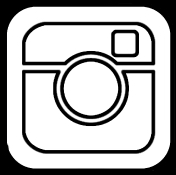
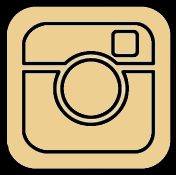
updated colors on pictures page

diff --git a/style.css b/style.css
@@ -43,7 +43,7 @@ body {
 	padding-bottom: 2rem;
 	font-family: 'Farmers_Reg';
 	text-align: center;
-	color: white;
+	color: #eccf90;
 }
 
 #logo_container {
@@ -56,7 +56,7 @@ body {
 }
 
 .home {
-	background-color: black;
+	background: black;
 }
 
 #menu_container {
@@ -138,6 +138,10 @@ h3{
 
   }
 
+/*.fotorama__caption {
+    text-align: center;
+    font-family: 'Farmers_Reg'
+}*/
 #insta_text {
 	font-family: 'Farmers_Reg';
 	text-align: center;
@@ -298,6 +302,10 @@ p {
 
 #footer-text {
 	font-size: 0.5rem
+}
+
+#insta_text {
+	color: #eccf90;
 }
 
 #insta_logo {
